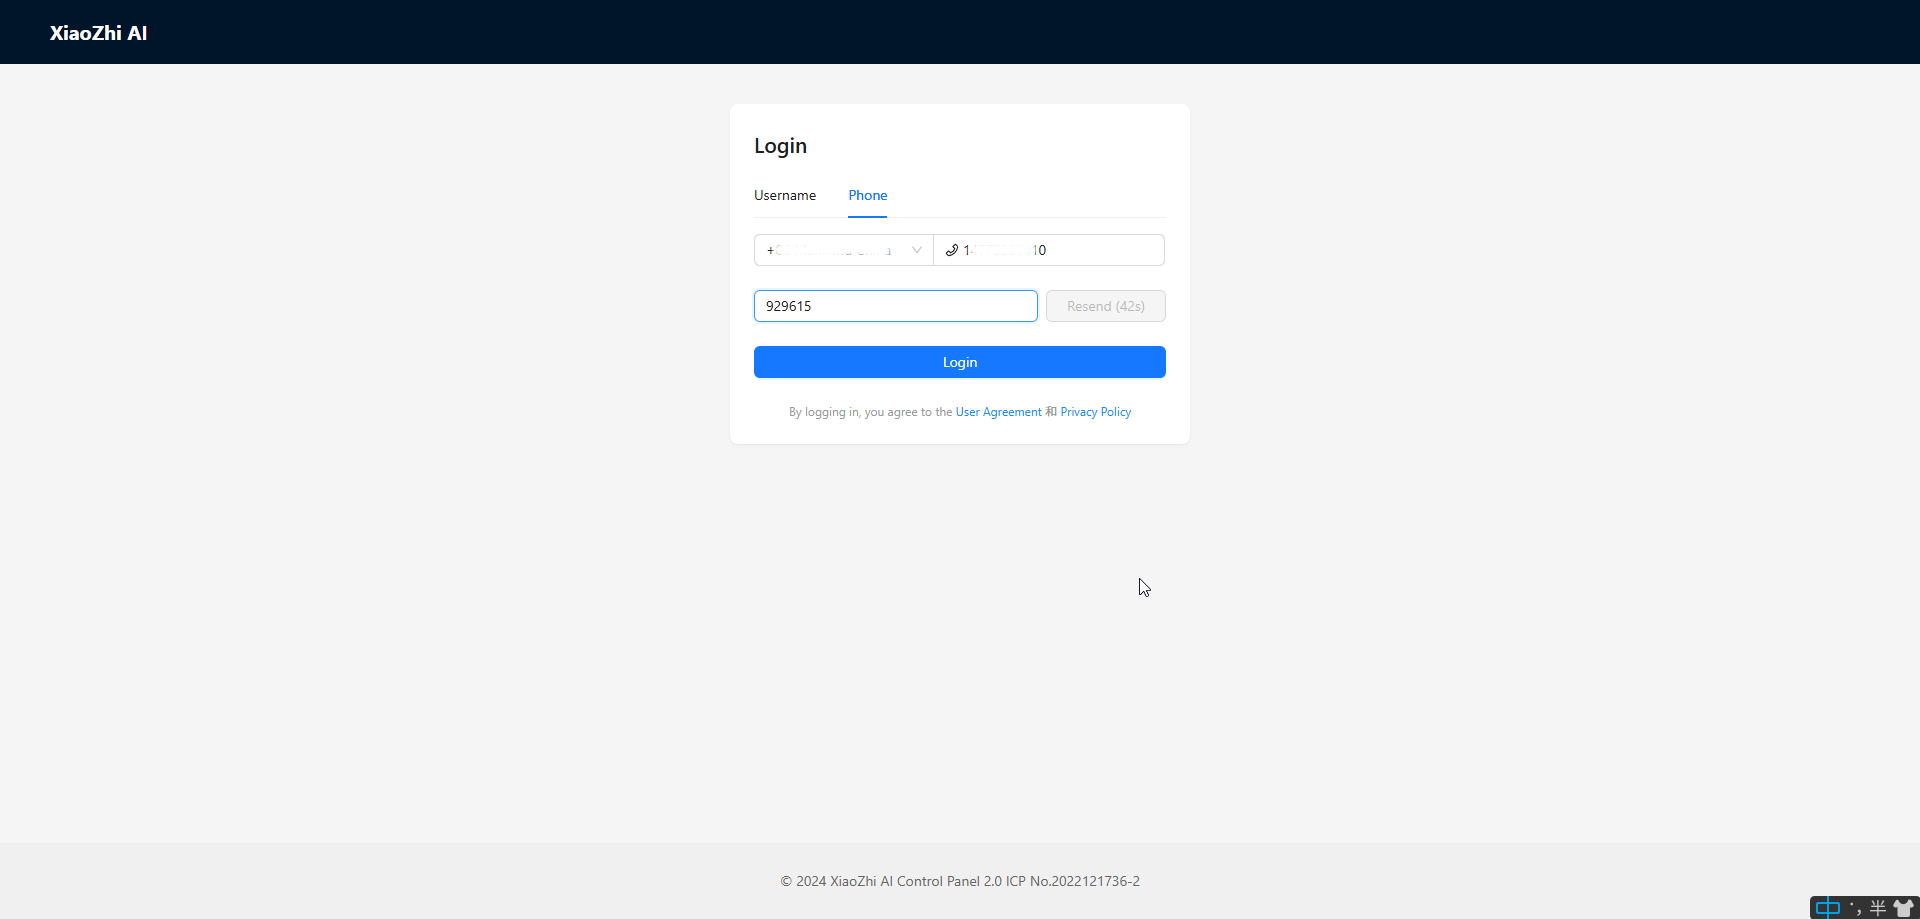
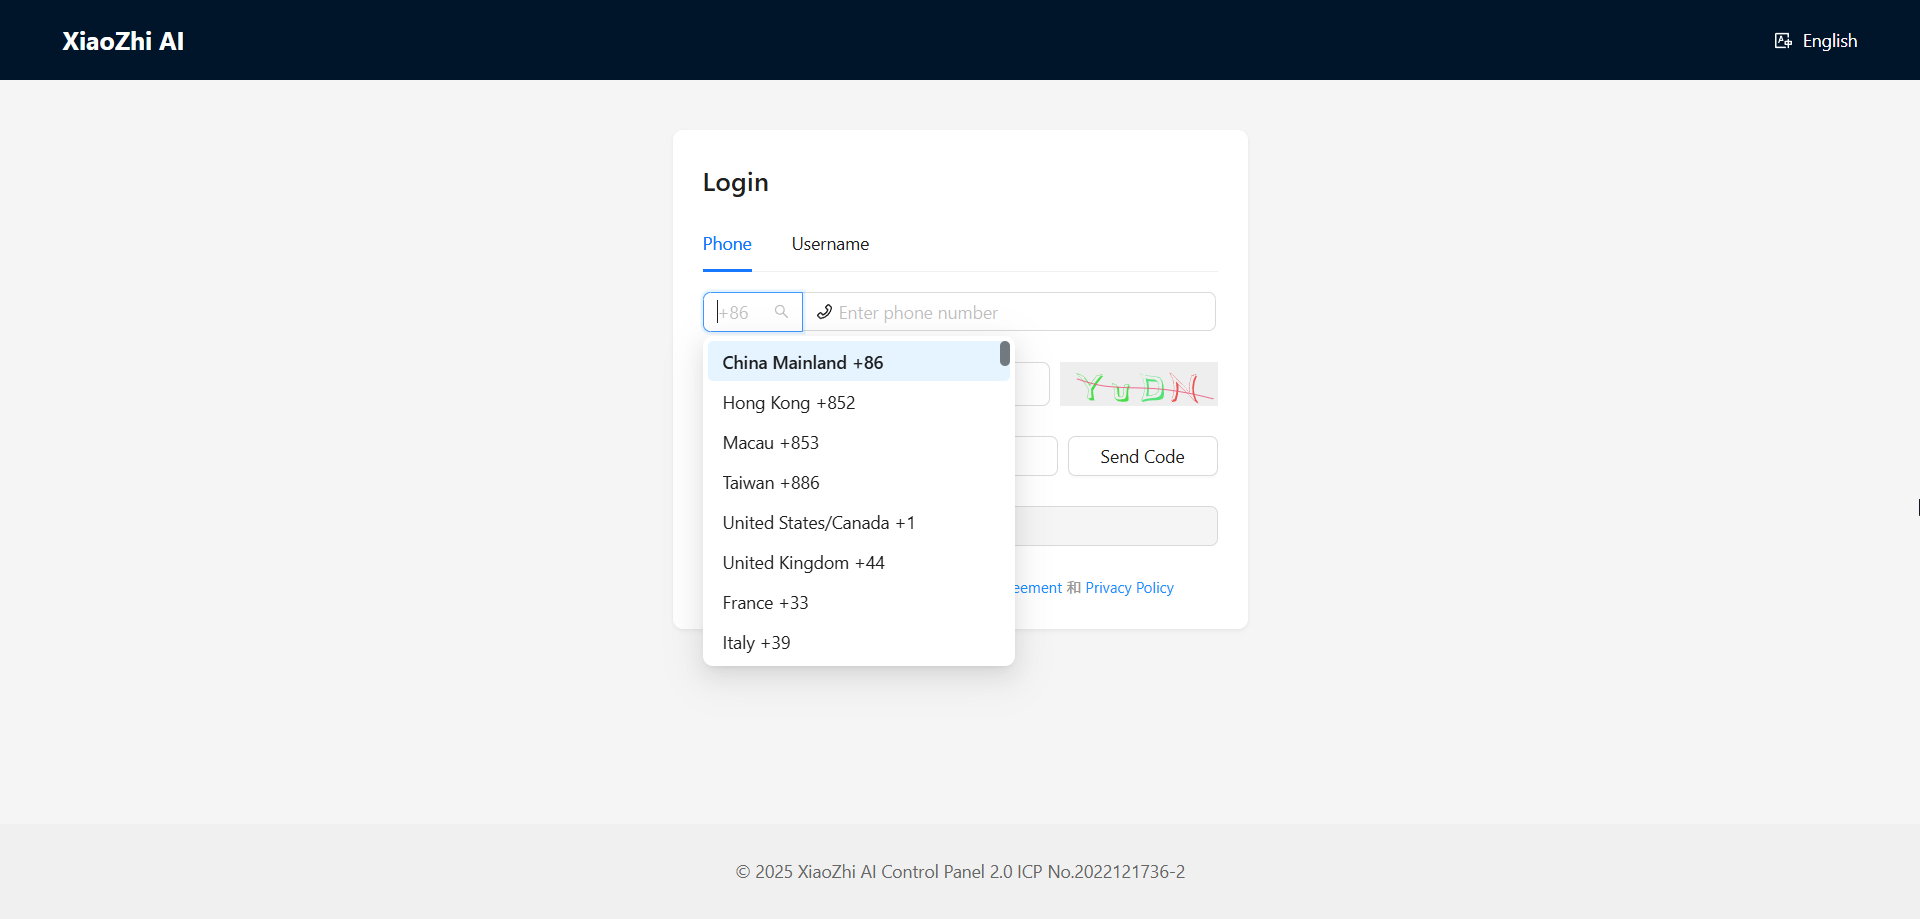
update

diff --git a/docs/source/Tutorial/troubleshooting.rst b/docs/source/Tutorial/troubleshooting.rst
@@ -13,15 +13,16 @@ Connection Issues
 * **Symptom**: OLED screen displays Wi-Fi icon with a diagonal line through it or prompts to enter Wi-Fi configuration mode
 * **Possible Causes**:
   
-  1. Incorrect Wi-Fi password
-  2. Wi-Fi signal is too weak
-  3. Wi-Fi network is a 5GHz network
+  1. Wi-Fi密码不正确
+  2. Wi-Fi信号太弱或者无法上网
+  3. Wi-Fi网络是5GHz网络
   
 * **Solutions**:
   
-  1. Re-enter the web pairing page and confirm that the Wi-Fi password entered is correct
-  2. Move the device closer to the router
-  3. Ensure your router supports 2.4GHz Wi-Fi (ESP32S3 does not support 5GHz networks)
+  1. 重新烧录进入网页配对页面，确认输入的Wi-Fi密码正确
+  2. 将设备移到更靠近路由器的位置
+  3. 确保您的路由器支持2.4GHz Wi-Fi（ESP32S3不支持5GHz网络）
+  4. 使用连接到同网络的设备看下是否能访问网络以及openai网站
 
 **Cannot Connect to AI Service**
 
@@ -43,60 +44,58 @@ Voice Issues
 * **Symptom**: When speaking, the OLED screen does not display any recognized text
 * **Possible Causes**:
   
-  1. Microphone connection error
-  2. Excessive environmental noise
+  1. 麦克风连接错误
+  2. 环境噪音过大
+  3. 音频模块没有连接正确或者不牢固
   
 * **Solutions**:
   
-  1. Check if the microphone module connection is correct and secure
-  2. Increase microphone sensitivity in the backend settings
-  3. Move to a quieter environment for use
-  4. Speak closer to the microphone
+  1. 检查音频模块连接是否正确和牢固
+  2. 在后台设置中增加麦克风灵敏度
+  3. 移到更安静的环境中使用靠近麦克风说话
 
-**Speaker Has No Sound**
+**扬声器没有声音**
 
-* **Symptom**: No sound output when the robot responds
-* **Possible Causes**:
-  
-  1. Speaker connection issues
-  2. Volume set to zero or too low
-  3. Damaged speaker
+* **症状**：机器人回应时没有声音输出
+* **可能原因**：
+
+  1. 扬声器没有连接到音频模块上
+  2. 音量设置为零或太低
+  3. 扬声器损坏
   
 * **Solutions**:
   
   1. Check the speaker module connection
-  2. Increase speaker volume in the backend settings
-  3. Replace the speaker module
+  2. 调整播放音量
 
 Display Issues
 ------------------------------------------
 
-**OLED Screen Does Not Display**
+**LCD Screen Does Not Display**
 
-* **Symptom**: OLED screen is completely black
-* **Possible Causes**:
+* **症状**：LCD屏幕完全黑屏或不显示
+* **可能原因**：
   
-  1. Screen connection issues
-  2. Damaged screen
+  1. 屏幕连接问题
+  2. 系统没有烧录成功
   
 * **Solutions**:
   
-  1. Check if the OLED module connections are correct
-  2. Restart the device
-  3. If the above methods are ineffective, you may need to replace the OLED module
+  1. 检查LCD屏幕连接是否正确
+  2. 重启设备
 
 **Abnormal Display Content**
 
-* **Symptom**: Screen displays garbled characters or incomplete content
-* **Possible Causes**:
-  
+* **症状**：屏幕显示闪烁或者不断重启
+* **可能原因**：
+
   1. Unstable screen connection
   2. Insufficient power supply
   
 * **Solutions**:
   
-  1. Check the OLED module connection
-  2. Replace the power adapter
+  1. 检查LCD模块连接
+  2. 更换充足电源(建议最少5V2A的电源适配器)
 
 System Issues
 ------------------------------------------
@@ -111,9 +110,9 @@ System Issues
   
 * **Solutions**:
   
-  1. Check if the USB power supply is stable, try replacing with a 5V1A or higher power adapter
-  2. Update to the latest firmware version
-  3. Confirm that the device is wired correctly
+  1. 检查USB电源是否稳定(建议最少5V2A的电源适配器)
+  2. 确定固件烧录正确
+  3. 确认设备接线正确
 
 **Device Responds Slowly**
 
@@ -125,15 +124,16 @@ System Issues
 * **Solutions**:
   
   1. Check network connection quality
+  2. 更换网络
 
 Reset Device
 ------------------------------------------
 
 If you encounter problems that cannot be resolved, you can try resetting the device:
 
-**Network Reconfiguration**
+**Network Reconfiguration**(xiaozhi version)
 
-1. Press the "boot" button when the device is powered on, and the device will re-enter network configuration mode
+1. 在设备通电时长按"boot"按钮，设备将重新进入网络配置模式
 
 **Reflash Firmware**
 
@@ -144,7 +144,7 @@ Contact Support
 
 If the above methods cannot solve your problem:
 
-1. Send an email to technical support: `hosyond_service@163.com <mailto:hosyond_service@163.com>`_
+1. 发送电子邮件至技术支持：`tech_edu_service@outlook.com <mailto:tech_edu_service@outlook.com>`_
 
 When seeking help, please provide the following information:
 

diff --git a/docs/source/Tutorial/5.chatgpt.rst b/docs/source/Tutorial/5.chatgpt.rst
@@ -45,10 +45,8 @@ Therefore, you need to decide whether to continue with this project or ensure yo
    * - .. figure:: img/flashtool1.png
           :width: 100%
 
-     - .. figure:: img/flashtool2.png
-          :width: 100%
 
-2. 按照以下步骤上传固件：
+1. 按照以下步骤上传固件：
 
    A. 点击"选择文件"按钮选择您下载的固件文件（.bin格式）
    B. 在bin文件选择框后的地址输入框中，输入``0或0x0``（表示固件将被下载到开发板内存的起始位置）
@@ -56,19 +54,18 @@ Therefore, you need to decide whether to continue with this project or ensure yo
    D. 设置波特率（这里我们使用465800）
    E. 点击"开始"按钮开始将固件下载到ESP32-S3开发板
 
-   .. figure:: img/flashtool3.png
+   .. figure:: img/flashtool2.png
       :align: center
       :width: 80%
 
-   .. figure:: img/flashtool5.png
+   .. figure:: img/flash_gpt.png
       :align: center
       :width: 80%
 
-3. 下载完成后，按下开发板上的RST按钮。开发板将自动重启并进入网络配置模式
-4. 将您的手机连接到名为Xiaozhi-XXXX的热点。配置页面应该会自动打开。如果没有，您可以在浏览器中手动输入``http://192.168.4.1``访问配置界面
-5. 选择您的WiFi网络并输入密码进行连接
-6. 开发板将自动重启，连接到您的WiFi，并播报一个6位验证码
-7. 添加设备：
-   * 输入设备播报的6位验证码
-   * 点击"添加设备"按钮
-   * 重启开发板以完成设备绑定
+2. 下载完成后，按下开发板上的RST按钮。开发板将自动重启并进入网络配置模式并在屏幕显示配置AP和密码
+   .. image:: img/wificonfig_gpt.png
+3. 将您的手机连接到名为ESP32_Config的热点。您可以在浏览器中手动输入``http://192.168.4.1``访问配置界面
+4. 选择您的WiFi网络并输入密码并填写APIkey(这里的网络需要可以正常连接到openai的服务器)
+5. 开发板将自动重启，连接到您的WiFi,并自动连接AI服务(如果超过30s没有重启可以重新按下RST键)
+
+.. image:: img/main_gpt.png

diff --git a/docs/source/Tutorial/4.xiaozhi_ai.rst b/docs/source/Tutorial/4.xiaozhi_ai.rst
@@ -18,7 +18,7 @@ Xiaozhi AI 使用教程
 
 3. 填写注册表单：
    
-   * 您所在国家的手机号码（用于接收验证码）
+   * 选择您所在国家并填入手机号码（用于接收验证码）
    * 密码（至少8个字符，必须包含字母和数字）
   
 4. 阅读并同意用户协议和隐私政策
@@ -34,6 +34,8 @@ Xiaozhi AI 使用教程
 .. figure:: img/sign1.png
    :align: center
 
+.. figure:: img/sign2.png
+   :align: center
 
 将设备添加到管理后台
 ------------------------------------------
@@ -83,9 +85,6 @@ Xiaozhi AI 使用教程
    * - .. figure:: img/flashtool1.png
           :width: 100%
 
-     - .. figure:: img/flashtool2.png
-          :width: 100%
-
 2. 按照以下步骤上传固件：
 
    A. 点击"选择文件"按钮选择您下载的固件文件（.bin格式）
@@ -94,19 +93,22 @@ Xiaozhi AI 使用教程
    D. 设置波特率（这里我们使用465800）
    E. 点击"开始"按钮开始将固件下载到ESP32-S3开发板
 
-   .. figure:: img/flashtool3.png
+   .. figure:: img/flashtool2.png
       :align: center
       :width: 80%
 
-   .. figure:: img/flashtool5.png
+   .. figure:: img/flash_xiaozhi.png
       :align: center
       :width: 80%
 
 3. 下载完成后，按下开发板上的RST按钮。开发板将自动重启并进入网络配置模式
 4. 将您的手机连接到名为Xiaozhi-XXXX的热点。配置页面应该会自动打开。如果没有，您可以在浏览器中手动输入``http://192.168.4.1``访问配置界面
+   .. image:: img/wificonfig_xiaozhi.png
 5. 选择您的WiFi网络并输入密码进行连接
 6. 开发板将自动重启，连接到您的WiFi，并播报一个6位验证码
-7. 添加设备：
+7. 去后台界面添加设备：
    * 输入设备播报的6位验证码
    * 点击"添加设备"按钮
    * 重启开发板以完成设备绑定
+
+.. image:: img/main_xiaozhi.png

diff --git a/docs/source/Tutorial/3.software_preparation.rst b/docs/source/Tutorial/3.software_preparation.rst
@@ -8,10 +8,10 @@
 烧录软件和Bin文件下载
 ------------------------------------------
 
-.. figure:: img/download2.png
+.. figure:: img/download.png
    :align: center
 
-1. 您可以访问我们的仓库：`GitHub仓库 <https://github.com/Hosyond/AIChatBot>`_ 或直接从此链接下载zip包：`文件下载 <https://codeload.github.com/Hosyond/AIChatBot/zip/refs/heads/main>`_
+1. 您可以访问我们的仓库：`GitHub仓库 <https://https://github.com/lafvintech/LAFVIN-AI-Chatbot>`_ 或直接从此链接下载zip包：`文件下载 <https://codeload.github.com/lafvintech/LAFVIN-AI-Chatbot/zip/refs/heads/main>`_
 2. 下载的zip包包含最新的bin固件、烧录工具和驱动程序
 3. 将下载的固件文件保存在您计算机上容易访问的位置
 

diff --git a/docs/source/Tutorial/1.introduction.rst b/docs/source/Tutorial/1.introduction.rst
@@ -13,7 +13,7 @@ ESP32S3 AI聊天机器人是一个基于ESP32S3微控制器的智能语音交互
 
 本项目结合了边缘计算和云端AI能力，提供流畅的语音交互体验，适用于智能家居控制、个人助理、教育陪伴、娱乐互动等多种场景。
 
-项目内有两套不同的AI，你可以根据需要来选择对应的进行烧录使用
+项目内有两套不同的AI方案，你可以根据需要来选择对应的进行烧录使用
 
 .. 本项目基于 `xiaozhi-esp32 <https://github.com/78/xiaozhi-esp32/blob/main/README_en.md>`_。如果您想添加自己的功能，可以按照文档进行二次开发。
 

diff --git a/docs/source/Tutorial/2.hardware_connect.rst b/docs/source/Tutorial/2.hardware_connect.rst
@@ -32,14 +32,11 @@
 连接图
 ----------------------
 
-.. figure:: img/connect02.jpg
+.. figure:: img/connect_exp.png
    :alt: ESP32S3连接图
    :align: center
 
-完成的连接应如上图所示
-
-.. warning:: 
-  请务必按照上面的连接图连接模块，否则模块可能会损坏。
+扩展板完成的连接应如上图所示
 
 连接说明
 -------------------------
@@ -74,6 +71,11 @@
 
 * 向上翻页 - GPIO20
 * 向下翻页 - GPIO19
+
+.. image:: img/connect.png
+
+.. warning:: 
+  请务必按照上面的连接图连接模块，否则模块可能会损坏。
 
 组装步骤
 ----------------------
